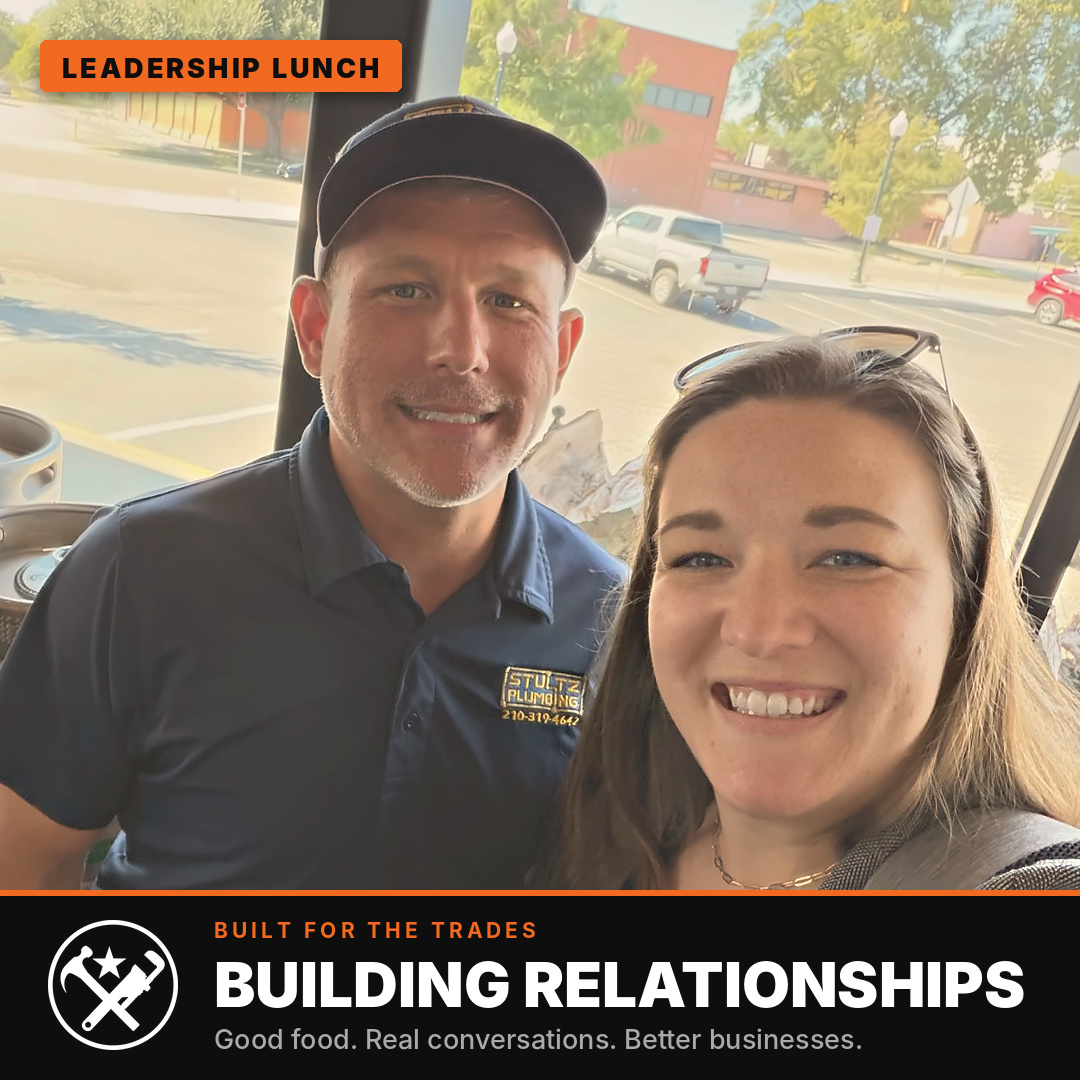
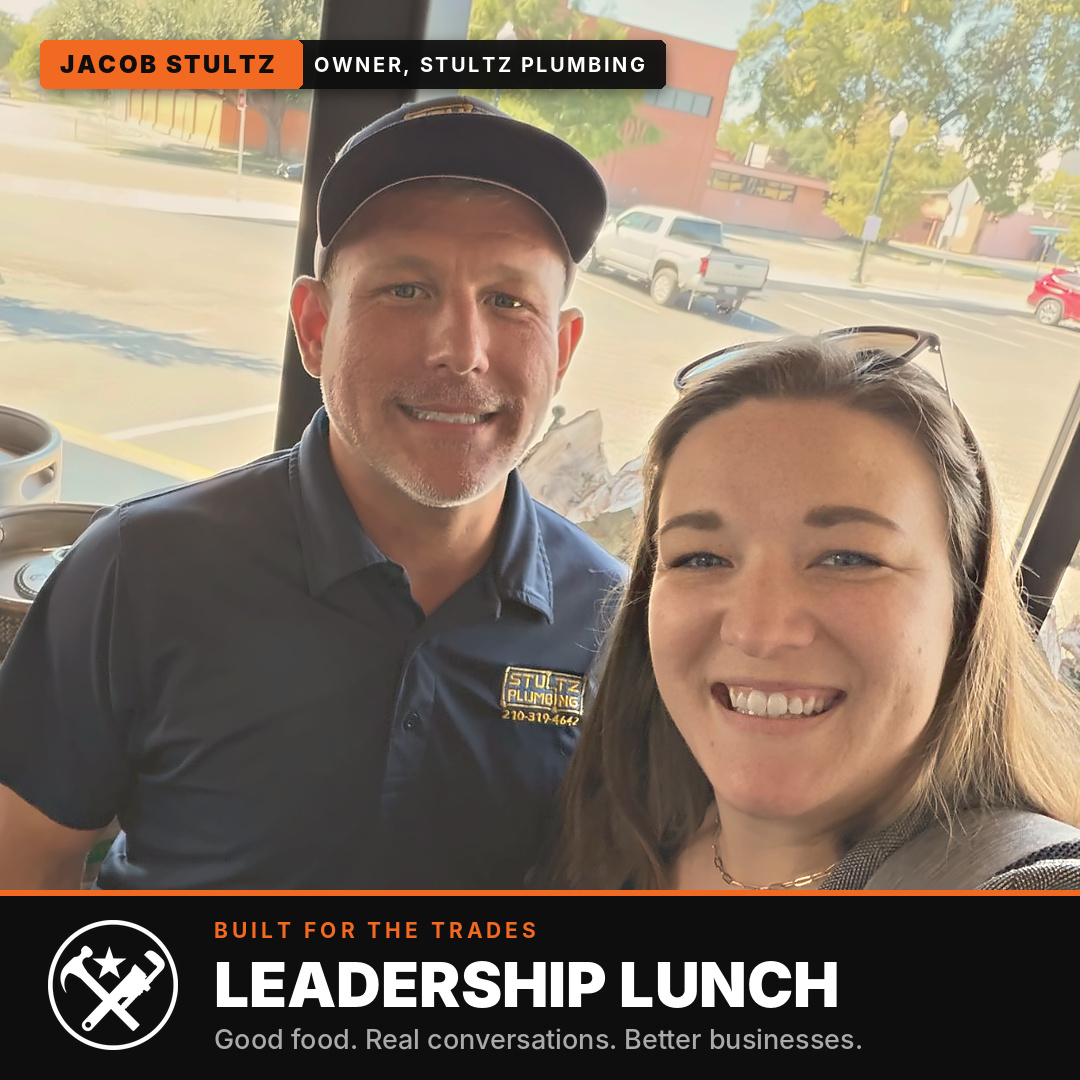
Make Leadership Lunch the headline; put Jacob in the corner tag
- Headline is now LEADERSHIP LUNCH
- Corner tag is a two-part name tag: JACOB STULTZ / OWNER, STULTZ PLUMBING
- Add alt text to the caption file

Claude-Session: https://claude.ai/code/session_01S2DvsM7J99RSaBQsJzDE5i

Changed region(s): [[0.2139, 0.8861, 0.9472, 0.9472], [0.0306, 0.0306, 0.6417, 0.0917]]

diff --git a/scripts/brand_photos.py b/scripts/brand_photos.py
@@ -80,9 +80,9 @@ SLIDES = [
         "photo": ROOT / "photos" / "lunch-selfie-01.jpg",
         "focus": (875, 915),     # centers Jacob and Julia
         "zoom": 1.2,             # crop in 20%: trims the empty keg/window space on the left
-        "tag": "LEADERSHIP LUNCH",   # corner tag (None to omit)
+        "tag": ("JACOB STULTZ", "OWNER, STULTZ PLUMBING"),   # (name, role) corner tag; None to omit
         "retouch": SELFIE_RETOUCH,
-        "headline": "BUILDING RELATIONSHIPS",
+        "headline": "LEADERSHIP LUNCH",
         "subline": "Good food. Real conversations. Better businesses.",
         "out": ROOT / "output" / "leadership-lunch.png",
     },
@@ -149,20 +149,29 @@ def fit_font(path, text, max_w, start, draw):
     return ImageFont.truetype(path, 20)
 
 
-def draw_tag(canvas, text, fill, ink, font_path, margin=40):
-    """Orange corner tag with a soft shadow, top-left (the 'category label' marketers use)."""
-    font = ImageFont.truetype(font_path, 27)
+def draw_tag(canvas, tag, brand, margin=40, h=48):
+    """Two-part name tag, top-left: name on an accent block, role on a dark block."""
+    name, role = tag
+    f_name = ImageFont.truetype(brand["font_head"], 24)
+    f_role = ImageFont.truetype(brand["font_label"], 20)
     probe = ImageDraw.Draw(canvas)
-    tracking = 3
-    tw = sum(probe.textlength(ch, font=font) + tracking for ch in text) - tracking
-    pad_x, pad_y = 22, 14
-    box = (margin, margin, margin + int(tw) + pad_x * 2, margin + font.size + pad_y * 2 - 4)
+    track = 2.5
+    width = lambda t, f: sum(probe.textlength(c, font=f) + track for c in t) - track
+    pad = 20
+    w1, w2 = int(width(name, f_name)) + pad * 2, int(width(role, f_role)) + pad * 2
+    x0, y0 = margin, margin
     shadow = Image.new("RGBA", canvas.size, (0, 0, 0, 0))
-    ImageDraw.Draw(shadow).rounded_rectangle((box[0], box[1] + 5, box[2], box[3] + 5), 6, fill=(0, 0, 0, 120))
-    canvas.paste(Image.alpha_composite(canvas.convert("RGBA"), shadow.filter(ImageFilter.GaussianBlur(7))).convert("RGB"))
+    ImageDraw.Draw(shadow).rounded_rectangle((x0, y0 + 5, x0 + w1 + w2, y0 + h + 5), 6, fill=(0, 0, 0, 120))
+    base = Image.alpha_composite(canvas.convert("RGBA"), shadow.filter(ImageFilter.GaussianBlur(7)))
+    panel = Image.new("RGBA", canvas.size, (0, 0, 0, 0))
+    pd = ImageDraw.Draw(panel)
+    pd.rounded_rectangle((x0, y0, x0 + w1 + w2, y0 + h), 6, fill=brand["band"] + (235,))
+    pd.rounded_rectangle((x0, y0, x0 + w1 + 8, y0 + h), 6, fill=brand["accent"] + (255,))
+    pd.rectangle((x0 + w1 - 6, y0, x0 + w1, y0 + h), fill=brand["accent"] + (255,))  # square the inner edge
+    canvas.paste(Image.alpha_composite(base, panel).convert("RGB"))
     d = ImageDraw.Draw(canvas)
-    d.rounded_rectangle(box, 6, fill=fill)
-    draw_tracked(d, (box[0] + pad_x, box[1] + pad_y - 3), text, font, ink, tracking)
+    draw_tracked(d, (x0 + pad, y0 + (h - f_name.size) // 2 - 3), name, f_name, brand["band"], track)
+    draw_tracked(d, (x0 + w1 + pad, y0 + (h - f_role.size) // 2 - 2), role, f_role, brand["text"], track)
 
 
 def render(slide):
@@ -173,7 +182,7 @@ def render(slide):
         photo = retouch(photo, slide["retouch"])
     canvas.paste(fit_photo(photo, SIZE, SIZE - BAND_H, slide["focus"], slide.get("zoom", 1.0)), (0, 0))
     if slide.get("tag"):
-        draw_tag(canvas, slide["tag"], b["accent"], b["band"], b["font_head"])
+        draw_tag(canvas, slide["tag"], b)
 
     # Logo, vertically centered in the band
     logo_h = BAND_H - 60
